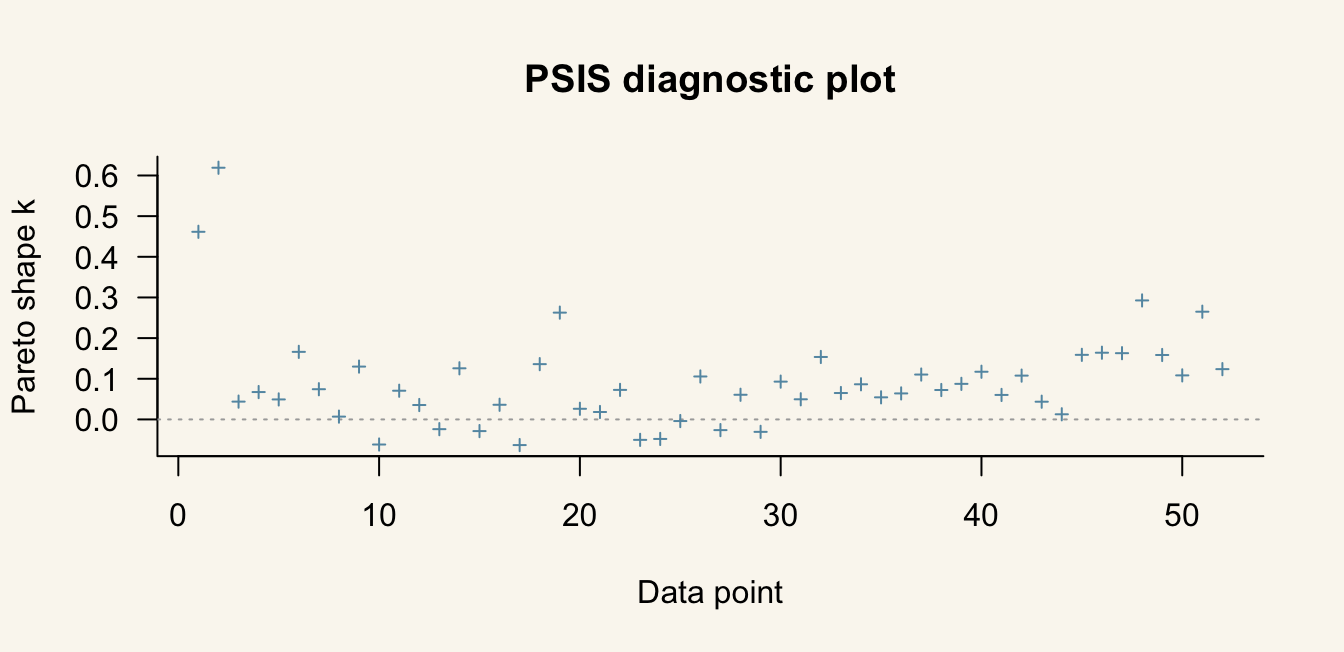
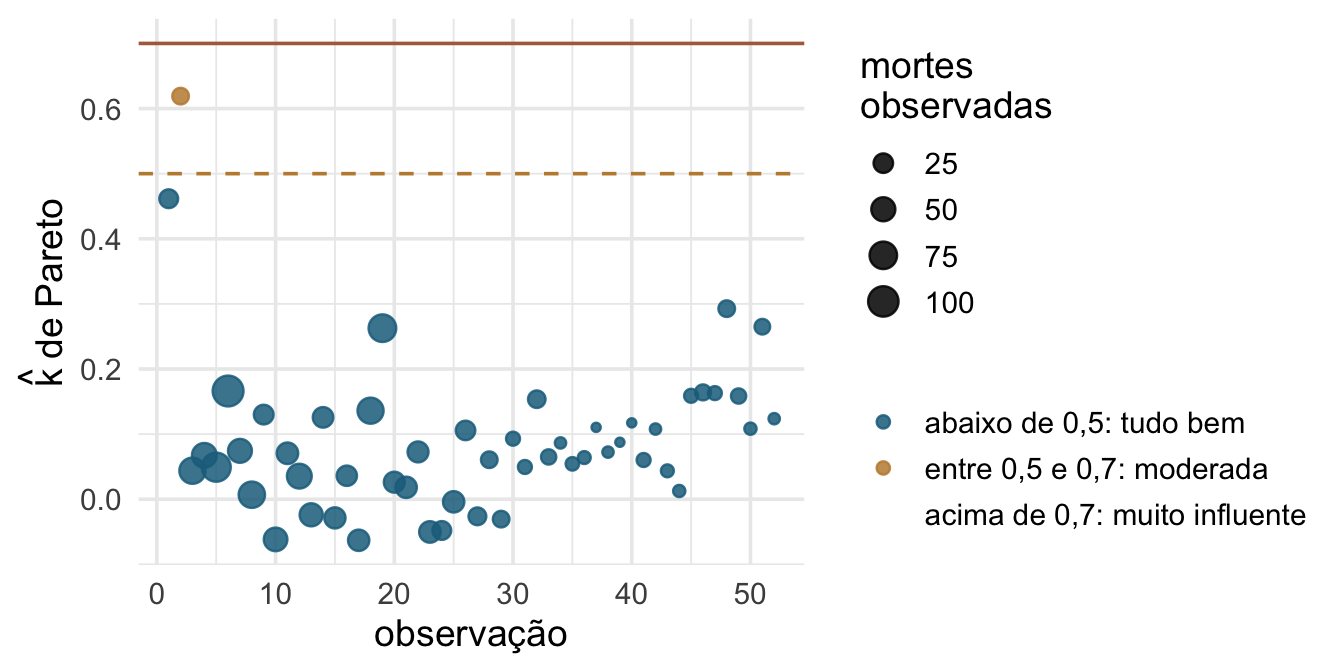
Pareto-k em ggplot no E9, no lugar do plot(loo_a)
O slide "Onde a aproximacao falha" tinha so o grafico base do loo. Vira um
ggplot com cor por faixa de k-hat (abaixo de 0,5, entre 0,5 e 0,7, acima de
0,7) e tamanho do ponto pela contagem observada de atropelamentos. O
RoadKills nao tem um fator de agrupamento para colorir, entao a cor carrega
a classificacao e o tamanho carrega a leitura que fecha o slide: as
observacoes influentes sao as de contagem extrema.

- Linhas de referencia tracejada em 0,5 e solida em 0,7, nas cores do deck.
- drop = FALSE na escala de cor: se nenhuma observacao passar de 0,7, a
  legenda ainda mostra as tres faixas, o que ajuda a explicar.
- A nota traz which(loo_a$diagnostics$pareto_k > 0.7), que responde "quais
  observacoes", e a mencao ao reloo, que a saida do loo() sugere.
- Codigo testado com um objeto loo real sobre matriz de log-verossimilhanca
  simulada: o que foi validado e o caminho tibble/case_when/escalas, nao os
  valores.

Claude-Session: https://claude.ai/code/session_014sDx5KG9A5nS2DGRQ8eRWx

diff --git a/docs/slides/e09.html b/docs/slides/e09.html
@@ -969,7 +969,6 @@ See help('pareto-k-diagnostic') for details.</code></pre>
 <section id="onde-a-aproximação-falha" class="slide level2 smaller">
 <h2>Onde a aproximação falha</h2>
 <div class="cell">
-<div class="code-copy-outer-scaffold"><div class="sourceCode cell-code" id="cb29"><pre class="sourceCode numberSource r number-lines code-with-copy"><code class="sourceCode r"><span id="cb29-1"><a></a><span class="fu">plot</span>(loo_a)</span></code></pre></div><button title="Copiar para a área de transferência" class="code-copy-button"><i class="bi"></i></button></div>
 <div class="cell-output-display">
 <div>
 <figure>
@@ -978,7 +977,10 @@ See help('pareto-k-diagnostic') for details.</code></pre>
 </div>
 </div>
 </div>
-<p>Nenhum critério de informação frequentista faz isso. Você descobre não só que o modelo é pior, mas <strong>quais observações</strong> ele não consegue predizer.</p>
+<p>Cada ponto é <strong>uma observação</strong>, e o tamanho é quantos atropelamentos ela registrou. Nenhum critério de informação frequentista faz isso: você descobre não só que o modelo é pior, mas <strong>quais</strong> observações ele não consegue predizer — e aqui elas são as de contagem extrema.</p>
+<div class="nota">
+<p><code>plot(loo_a)</code> devolve essa mesma informação em um gráfico pronto, sem cores. Para saber quem são: <code>which(loo_a$diagnostics$pareto_k &gt; 0.7)</code>. Acima de 0,7 a aproximação do PSIS não vale para aquela observação, e a saída de <code>loo()</code> sugere o <code>reloo</code>, que reajusta o modelo sem ela.</p>
+</div>
 </section>
 <section id="não-selecionar-mediar" class="slide level2">
 <h2>Não selecionar, mediar</h2>
